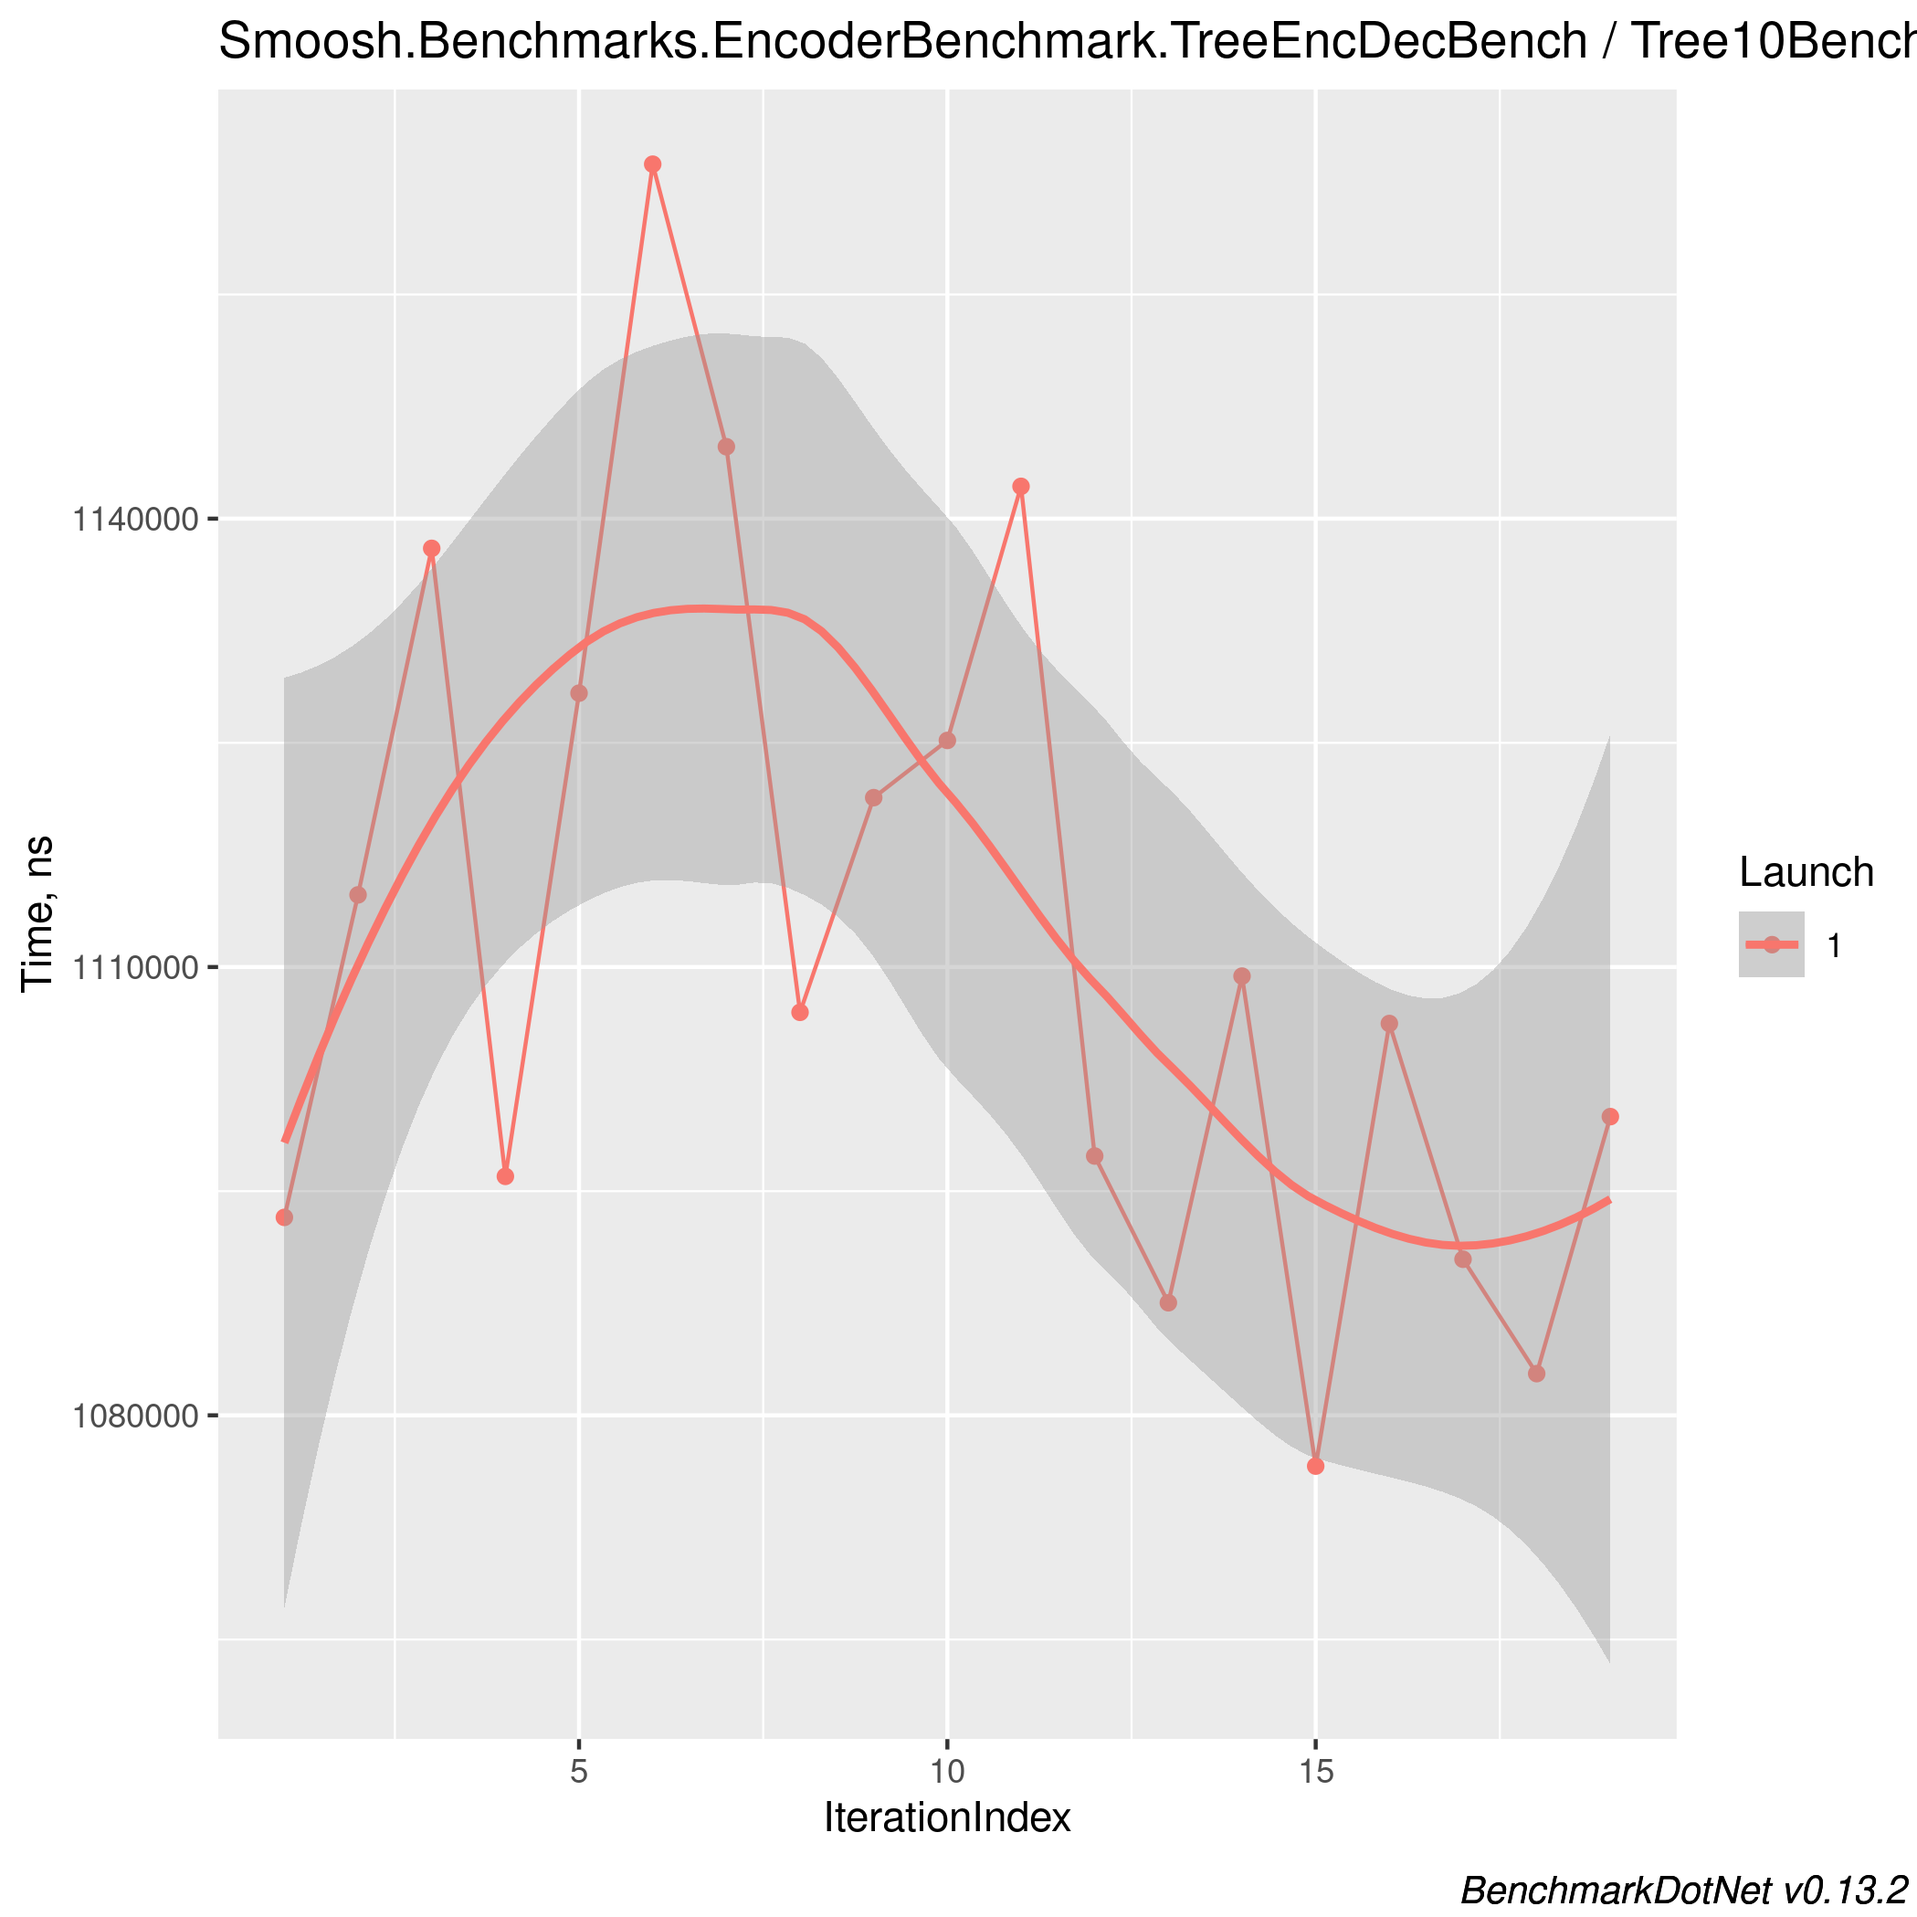
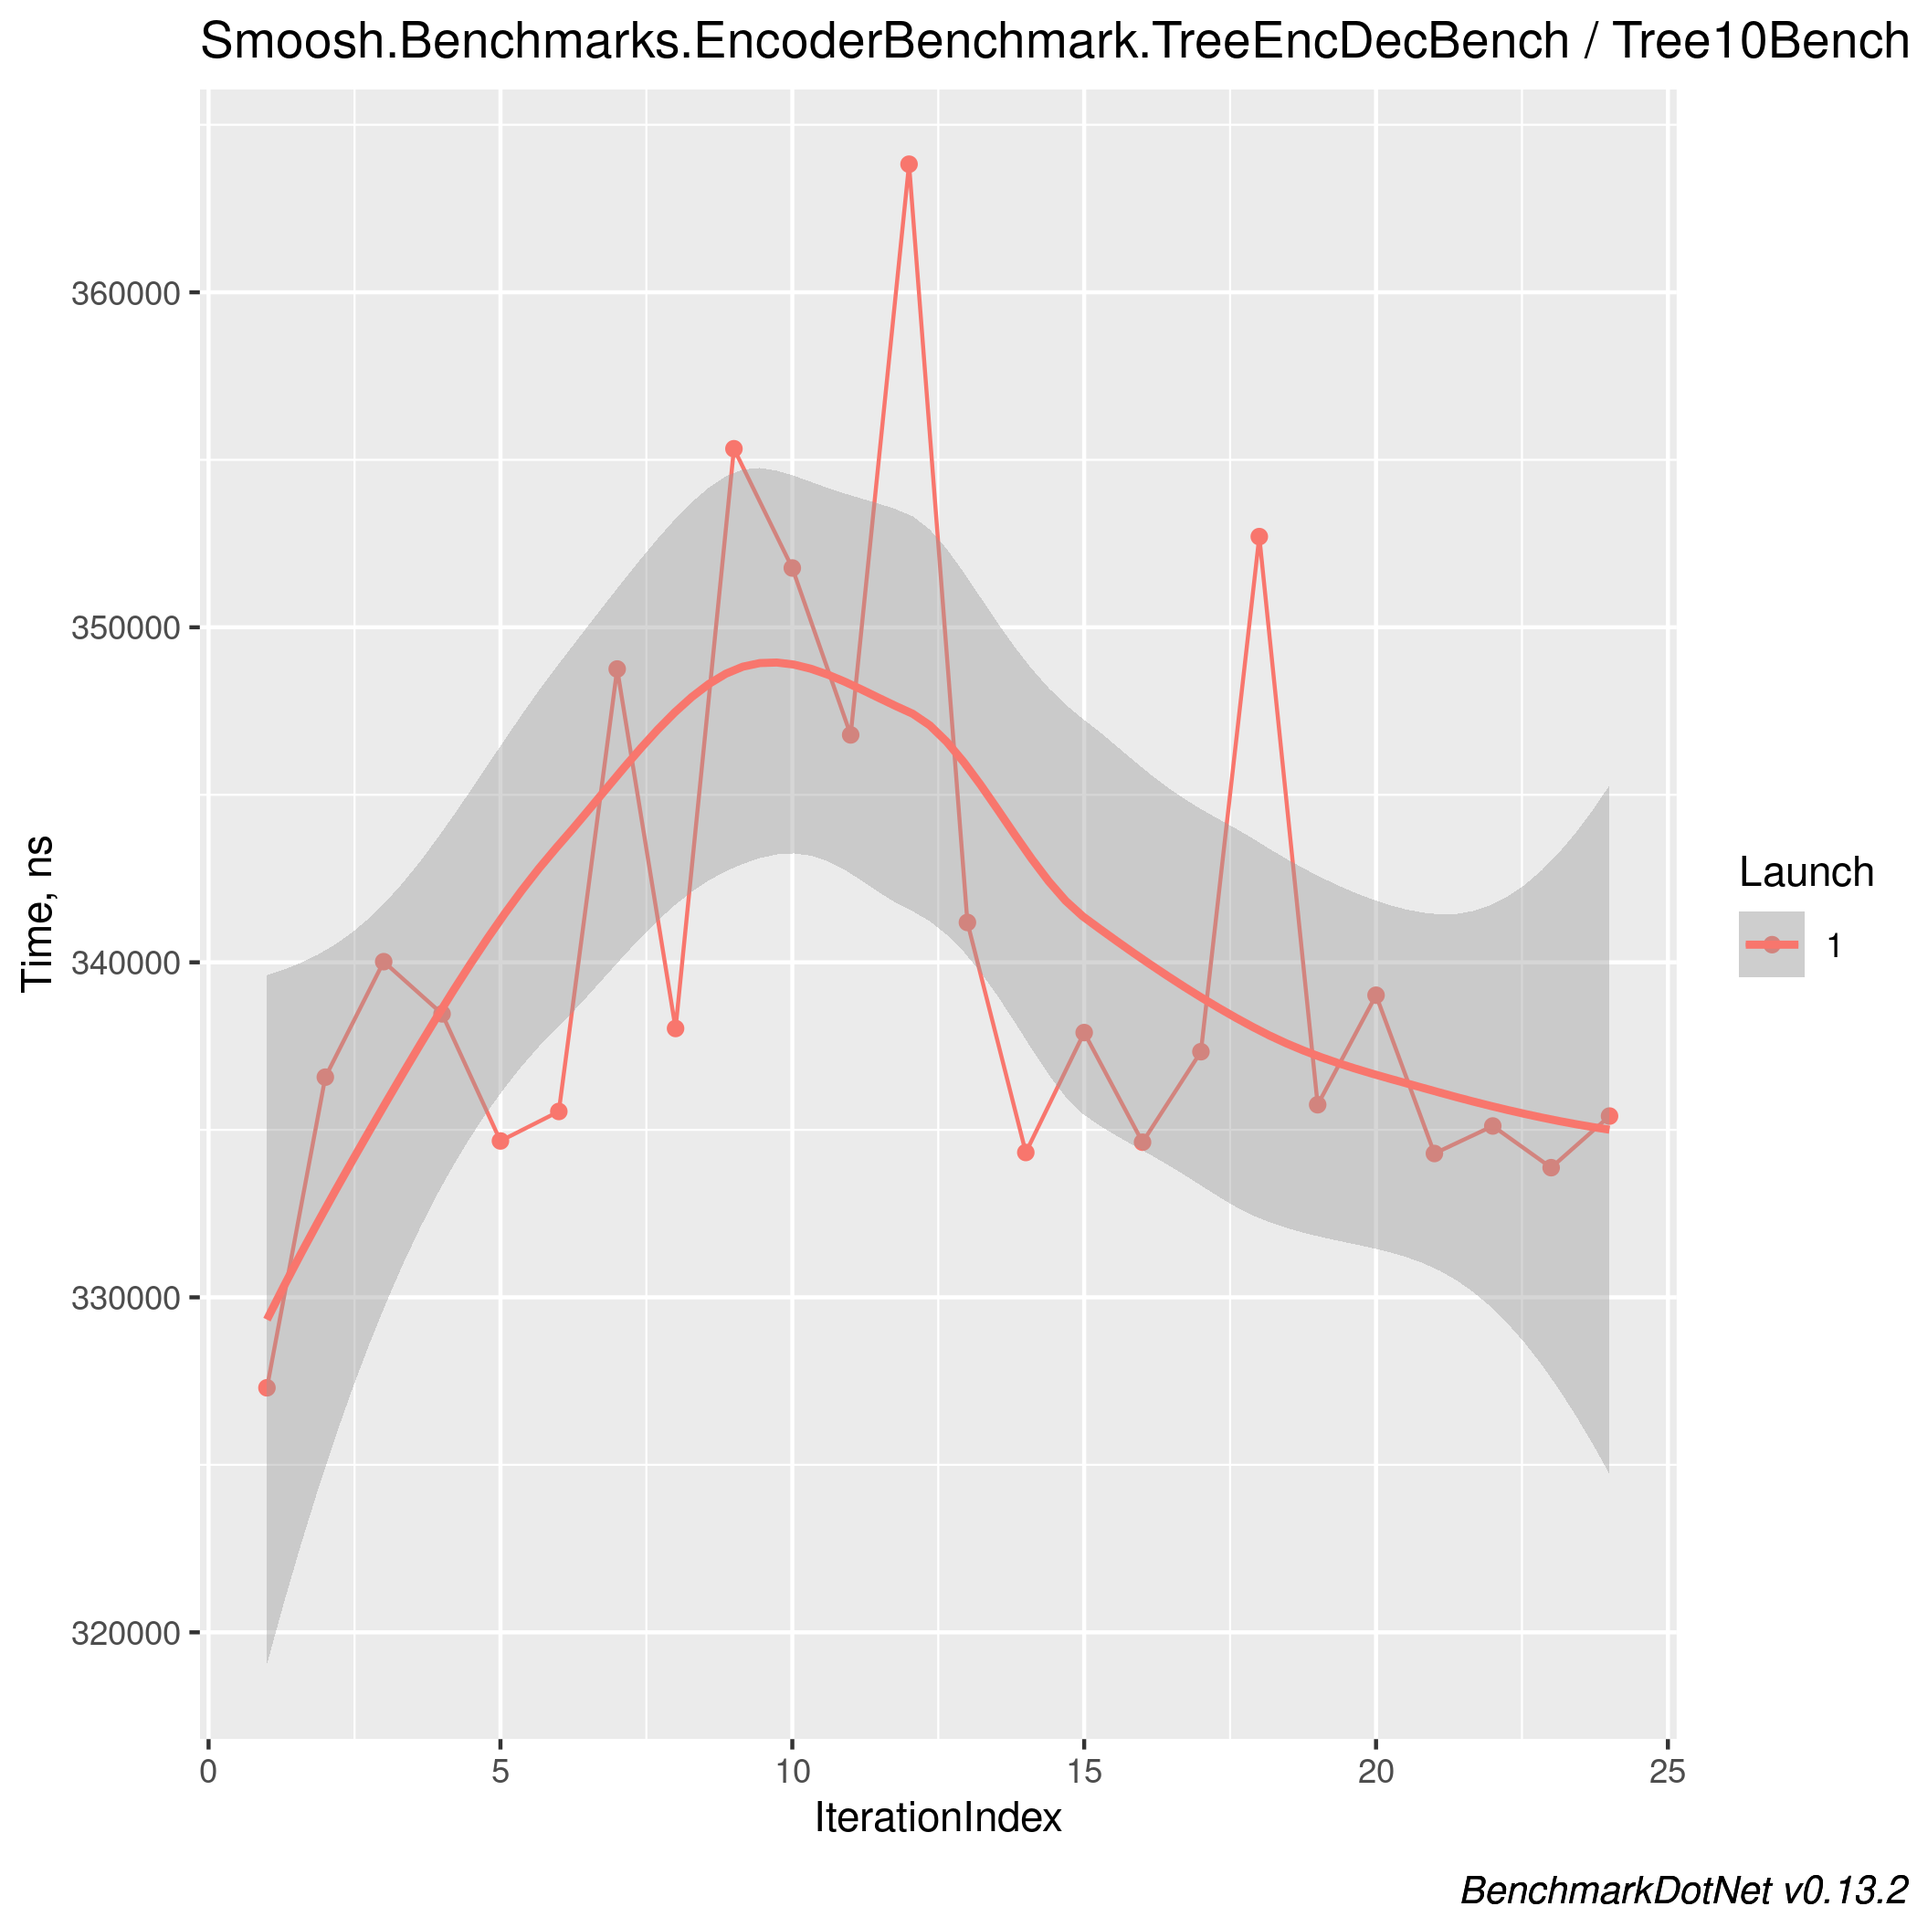
update benchmarks

diff --git a/BENCHMARKS.LATENCY.md b/BENCHMARKS.LATENCY.md
@@ -193,12 +193,12 @@ AMD Ryzen 5 3550H with Radeon Vega Mobile Gfx, 1 CPU, 8 logical and 4 physical c
 
 # `Tree`
 
-|      Method |        Mean |       Error |      StdDev |  Ratio | RatioSD |
-|------------ |------------:|------------:|------------:|-------:|--------:|
-|   LeafBench |    269.4 ns |     5.40 ns |    10.01 ns |   1.00 |    0.00 |
-| Tree01Bench |    364.7 ns |     6.88 ns |     6.76 ns |   1.36 |    0.06 |
-| Tree05Bench |  2,709.5 ns |    43.04 ns |    38.16 ns |  10.08 |    0.37 |
-| Tree10Bench | 82,310.7 ns | 1,421.88 ns | 2,039.22 ns | 304.50 |   15.52 |
+|      Method |        Mean |       Error |    StdDev |  Ratio | RatioSD |
+|------------ |------------:|------------:|----------:|-------:|--------:|
+|   LeafBench |    177.8 ns |     3.54 ns |   6.00 ns |   1.00 |    0.00 |
+| Tree01Bench |    265.4 ns |     5.24 ns |   8.89 ns |   1.49 |    0.07 |
+| Tree05Bench |  2,647.4 ns |    52.79 ns |  54.21 ns |  15.05 |    0.80 |
+| Tree10Bench | 75,021.9 ns | 1,084.52 ns | 905.63 ns | 427.07 |   19.57 |
 
 |                                                                                                        |                                                                                                               |
 |--------------------------------------------------------------------------------------------------------|---------------------------------------------------------------------------------------------------------------|
@@ -210,12 +210,12 @@ AMD Ryzen 5 3550H with Radeon Vega Mobile Gfx, 1 CPU, 8 logical and 4 physical c
 
 # `Tree` Enc & Dec
 
-|      Method |           Mean |        Error |       StdDev |    Ratio | RatioSD |
-|------------ |---------------:|-------------:|-------------:|---------:|--------:|
-|   LeafBench |       652.5 ns |     13.02 ns |     14.99 ns |     1.00 |    0.00 |
-| Tree01Bench |     1,700.7 ns |     15.91 ns |     14.11 ns |     2.62 |    0.07 |
-| Tree05Bench |    33,872.2 ns |    644.16 ns |    571.03 ns |    52.19 |    1.33 |
-| Tree10Bench | 1,111,835.8 ns | 21,284.58 ns | 23,657.75 ns | 1,706.59 |   51.90 |
+|      Method |         Mean |       Error |      StdDev |       Median |    Ratio | RatioSD |
+|------------ |-------------:|------------:|------------:|-------------:|---------:|--------:|
+|   LeafBench |     273.5 ns |     5.39 ns |     9.01 ns |     276.6 ns |     1.00 |    0.00 |
+| Tree01Bench |     629.5 ns |    12.60 ns |    14.00 ns |     633.2 ns |     2.32 |    0.09 |
+| Tree05Bench |  11,132.1 ns |   269.35 ns |   789.94 ns |  10,800.3 ns |    40.93 |    3.26 |
+| Tree10Bench | 340,358.3 ns | 6,529.61 ns | 8,490.34 ns | 337,617.1 ns | 1,250.11 |   55.08 |
 
 |                                                                                                        |                                                                                                               |
 |--------------------------------------------------------------------------------------------------------|---------------------------------------------------------------------------------------------------------------|

diff --git a/BENCHMARKS.COMPARE.md b/BENCHMARKS.COMPARE.md
@@ -109,12 +109,12 @@ AMD Ryzen 5 3550H with Radeon Vega Mobile Gfx, 1 CPU, 8 logical and 4 physical c
 
 # `Tree`
 
-|       Method |        Mean |     Error |     StdDev | Ratio | RatioSD |
-|------------- |------------:|----------:|-----------:|------:|--------:|
-| Tree05BenchL |    37.65 μs |  0.751 μs |   1.482 μs |  1.00 |    0.00 |
-| Tree10BenchL | 1,270.21 μs | 25.968 μs |  75.750 μs | 33.53 |    2.62 |
-| Tree05BenchS |    93.75 μs |  1.848 μs |   3.857 μs |  2.50 |    0.12 |
-| Tree10BenchS | 3,406.15 μs | 66.905 μs | 109.926 μs | 91.04 |    4.25 |
+|       Method |         Mean |      Error |     StdDev |  Ratio | RatioSD |
+|------------- |-------------:|-----------:|-----------:|-------:|--------:|
+| Tree05BenchL |     9.940 μs |  0.1856 μs |  0.1645 μs |   1.00 |    0.00 |
+| Tree10BenchL |   350.989 μs |  5.6621 μs |  5.2963 μs |  35.30 |    0.73 |
+| Tree05BenchS |    60.323 μs |  0.9711 μs |  0.9084 μs |   6.07 |    0.17 |
+| Tree10BenchS | 2,194.997 μs | 41.3432 μs | 44.2368 μs | 220.47 |    5.77 |
 
 |                                                                                                      |                                                                                                             |
 |------------------------------------------------------------------------------------------------------|-------------------------------------------------------------------------------------------------------------|

diff --git a/results/Smoosh.Benchmarks.EncoderBenchmark.TreeEncDecBench-report-github.md b/results/Smoosh.Benchmarks.EncoderBenchmark.TreeEncDecBench-report-github.md
@@ -8,9 +8,9 @@ AMD Ryzen 5 3550H with Radeon Vega Mobile Gfx, 1 CPU, 8 logical and 4 physical c
 
 
 ```
-|      Method |           Mean |        Error |       StdDev |    Ratio | RatioSD |
-|------------ |---------------:|-------------:|-------------:|---------:|--------:|
-|   LeafBench |       652.5 ns |     13.02 ns |     14.99 ns |     1.00 |    0.00 |
-| Tree01Bench |     1,700.7 ns |     15.91 ns |     14.11 ns |     2.62 |    0.07 |
-| Tree05Bench |    33,872.2 ns |    644.16 ns |    571.03 ns |    52.19 |    1.33 |
-| Tree10Bench | 1,111,835.8 ns | 21,284.58 ns | 23,657.75 ns | 1,706.59 |   51.90 |
+|      Method |         Mean |       Error |      StdDev |       Median |    Ratio | RatioSD |
+|------------ |-------------:|------------:|------------:|-------------:|---------:|--------:|
+|   LeafBench |     273.5 ns |     5.39 ns |     9.01 ns |     276.6 ns |     1.00 |    0.00 |
+| Tree01Bench |     629.5 ns |    12.60 ns |    14.00 ns |     633.2 ns |     2.32 |    0.09 |
+| Tree05Bench |  11,132.1 ns |   269.35 ns |   789.94 ns |  10,800.3 ns |    40.93 |    3.26 |
+| Tree10Bench | 340,358.3 ns | 6,529.61 ns | 8,490.34 ns | 337,617.1 ns | 1,250.11 |   55.08 |

diff --git a/results/Smoosh.Benchmarks.EncoderBenchmark.CmpTreeEncDecBench-report-github.md b/results/Smoosh.Benchmarks.EncoderBenchmark.CmpTreeEncDecBench-report-github.md
@@ -8,9 +8,9 @@ AMD Ryzen 5 3550H with Radeon Vega Mobile Gfx, 1 CPU, 8 logical and 4 physical c
 
 
 ```
-|       Method |        Mean |     Error |     StdDev | Ratio | RatioSD |
-|------------- |------------:|----------:|-----------:|------:|--------:|
-| Tree05BenchL |    37.65 μs |  0.751 μs |   1.482 μs |  1.00 |    0.00 |
-| Tree10BenchL | 1,270.21 μs | 25.968 μs |  75.750 μs | 33.53 |    2.62 |
-| Tree05BenchS |    93.75 μs |  1.848 μs |   3.857 μs |  2.50 |    0.12 |
-| Tree10BenchS | 3,406.15 μs | 66.905 μs | 109.926 μs | 91.04 |    4.25 |
+|       Method |         Mean |      Error |     StdDev |  Ratio | RatioSD |
+|------------- |-------------:|-----------:|-----------:|-------:|--------:|
+| Tree05BenchL |     9.940 μs |  0.1856 μs |  0.1645 μs |   1.00 |    0.00 |
+| Tree10BenchL |   350.989 μs |  5.6621 μs |  5.2963 μs |  35.30 |    0.73 |
+| Tree05BenchS |    60.323 μs |  0.9711 μs |  0.9084 μs |   6.07 |    0.17 |
+| Tree10BenchS | 2,194.997 μs | 41.3432 μs | 44.2368 μs | 220.47 |    5.77 |

diff --git a/results/Smoosh.Benchmarks.EncoderBenchmark.TreeBench-report-github.md b/results/Smoosh.Benchmarks.EncoderBenchmark.TreeBench-report-github.md
@@ -8,9 +8,9 @@ AMD Ryzen 5 3550H with Radeon Vega Mobile Gfx, 1 CPU, 8 logical and 4 physical c
 
 
 ```
-|      Method |        Mean |       Error |      StdDev |  Ratio | RatioSD |
-|------------ |------------:|------------:|------------:|-------:|--------:|
-|   LeafBench |    269.4 ns |     5.40 ns |    10.01 ns |   1.00 |    0.00 |
-| Tree01Bench |    364.7 ns |     6.88 ns |     6.76 ns |   1.36 |    0.06 |
-| Tree05Bench |  2,709.5 ns |    43.04 ns |    38.16 ns |  10.08 |    0.37 |
-| Tree10Bench | 82,310.7 ns | 1,421.88 ns | 2,039.22 ns | 304.50 |   15.52 |
+|      Method |        Mean |       Error |    StdDev |  Ratio | RatioSD |
+|------------ |------------:|------------:|----------:|-------:|--------:|
+|   LeafBench |    177.8 ns |     3.54 ns |   6.00 ns |   1.00 |    0.00 |
+| Tree01Bench |    265.4 ns |     5.24 ns |   8.89 ns |   1.49 |    0.07 |
+| Tree05Bench |  2,647.4 ns |    52.79 ns |  54.21 ns |  15.05 |    0.80 |
+| Tree10Bench | 75,021.9 ns | 1,084.52 ns | 905.63 ns | 427.07 |   19.57 |
